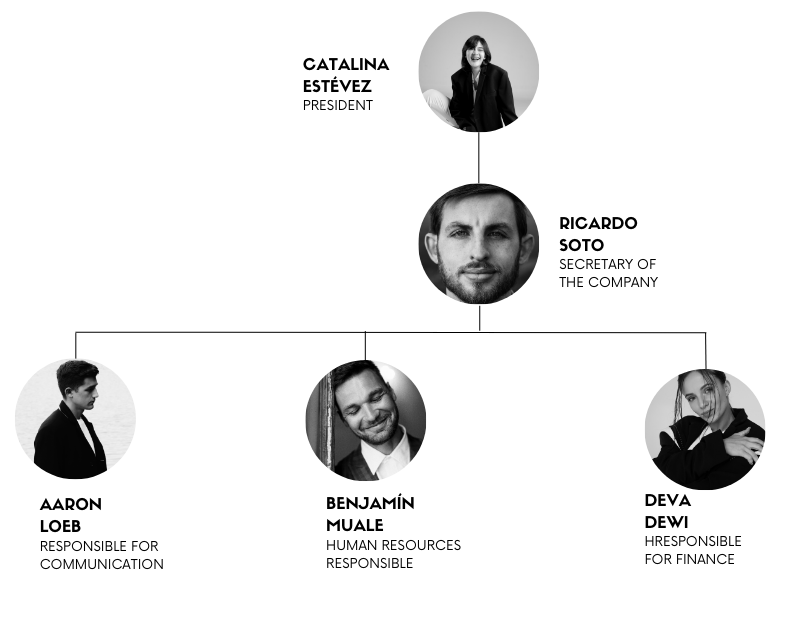
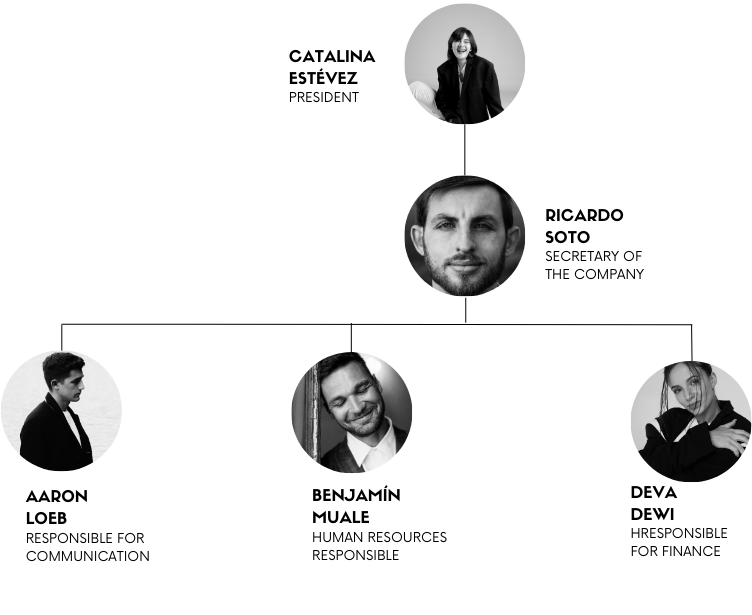
Resuelto conflicto con la imagen

diff --git a/html/council.html b/html/council.html
@@ -6,13 +6,11 @@
         <meta name="viewport" content="width=device-width, initial-scale=1.0">
         <meta name="description" content="Reto 1DAW"/>
         <meta name="authors" content="Eva, Paula, Guillermo"/>
-        <title>Works council</title>
-        <link rel="stylesheet" href="../css/privacypolicy.css">
+        <title>Pagina WORKS COUNCIL</title>
+        <link rel="stylesheet" href="../css/council.css">
         <link rel="preconnect" href="https://fonts.googleapis.com">
         <link rel="preconnect" href="https://fonts.gstatic.com" crossorigin>
-        <link
-            href="https://fonts.googleapis.com/css2?family=Inter:wght@200;300;400;500;600;700;800&display=swap"
-            rel="stylesheet">
+        <link href="https://fonts.googleapis.com/css2?family=Inter:wght@200;300;400;500;600;700;800&display=swap" rel="stylesheet">
     </head>
 
     <body>
@@ -21,8 +19,7 @@
                 <div class="header_1">
                     <div class="container">
                         <div class="overlay">
-                            <img class="header_candado"
-                                src="../imagenes/candado_header.png">
+                            <img class="header_candado" src="../imagenes/candado_header.png">
                         </div>
                         <div class="blur-layer"></div>
                         <div class="message-overlay">
@@ -34,21 +31,17 @@
                                         src="../imagenes/candado_priv.png"/>
                                     <h1 class="h1_black">Private zone</h1>
                                     <div class="contenedor_correo">
-                                        <input type="text" id="input"
-                                            required="Comp">
-                                        <label for="input" class="label">Enter
-                                            your email address</label>
+                                        <input type="text" id="input" required="Comp">
+                                        <label for="input" class="label">Enter your email address</label>
                                         <div class="underline"></div>
                                     </div>
-                                    <a href="../html/lock.html"><button
-                                            class="boton_zona_privada"
-                                            type="submit"><strong>GO THERE!</strong></button></a>
+                                    <a href="../html/lock.html"><button class="boton_zona_privada" type="submit"><strong>GO THERE!</strong></button></a>
                                 </div>
                             </div>
                         </div>
                     </div>
-
                 </div>
+
                 <div id="user_cart">
                     <ul>
                         <li><a href="#"><img class="usuario"
@@ -68,16 +61,13 @@
                         </ul>
                     </div>
                 </div>
-
             </header>
 
-            <img onclick="topFunction()" id="boton_scroll" title="boton_scroll"
-                src="../imagenes/scroll.png"/>
+            <img onclick="topFunction()" id="boton_scroll" title="boton_scroll" src="../imagenes/scroll.png"/>
 
             <div class="contenedor_privacy_policy">
                 <h1 class="titulo_principal">Works council<br><span
-                        class="subtitulos"><em>The secret to a good meeting is a
-                            good coffee in hand.</em></span></h1>
+                        class="subtitulos"><em>The secret to a good meeting is a good coffee in hand.</em></span></h1>
                 <img class="banner" src="../imagenes/council_banner.png"/>
             </div>
 
@@ -88,7 +78,7 @@
                 <h1 class="marron">Responsibilities of the Committee</h1>
                 <br>
                 <div class="lista">
-                    <li><b>President/a of the Company Committee:</b> In charge
+                    <li><b>President of the Company Committee:</b> In charge
                         of representing the committee before the management of
                         the cafeteria and leading the meetings of the Committee.</li>
                     <br>
@@ -110,18 +100,10 @@
                         the financial affairs of the cafeteria, including
                         accounting, budget and management of economic resources.</li>
                     <br>
-                    <div class="img_bans"><img id="img_ban"
-                            src="../imagenes/Organigrama.png"></div>
-
+                    <br>
+                    <img class="img_organigrama" src="../imagenes/Organigrama.png">
                 </div>
-
             </div>
-
-
-
-
-
-
 
             <footer class="footer">
                 <div class="contenedor_footer">

diff --git a/css/council.css b/css/council.css
@@ -1,7 +1,11 @@
+.img_organigrama {
+    display: block;
+    margin: 0 auto;
+}
+
 .box {
     font-family: 'Inter', sans-serif;
 }
-
 
 body {
     margin: 0;
